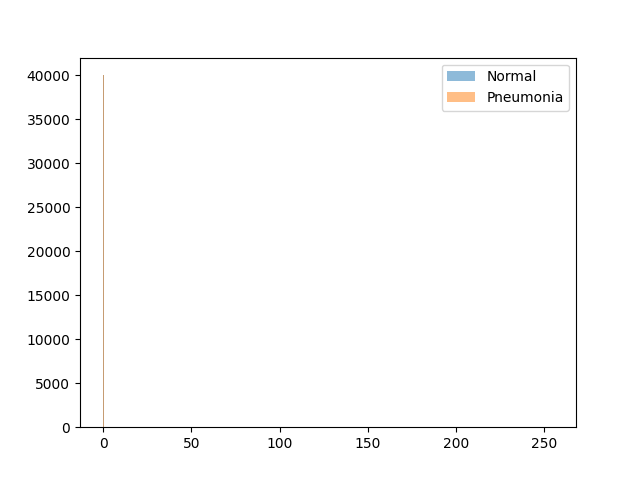
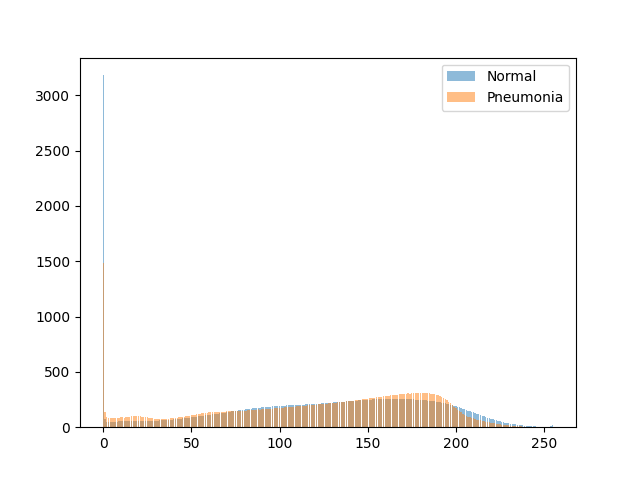
Undid pixel scaling

diff --git a/exploratory_analysis.py b/exploratory_analysis.py
@@ -122,7 +122,7 @@ def transform_data(whichSet):
             numMedian = pixelCounts[medianPixel]
 
         df_transform = df_transform.append({
-            'img': np.round(imgr/255,4),
+            'img': imgr,
             'label1': row['Label'],
             'label2': row['Label_1_Virus_category'],
             'label3': row['Label_2_Virus_category'],
